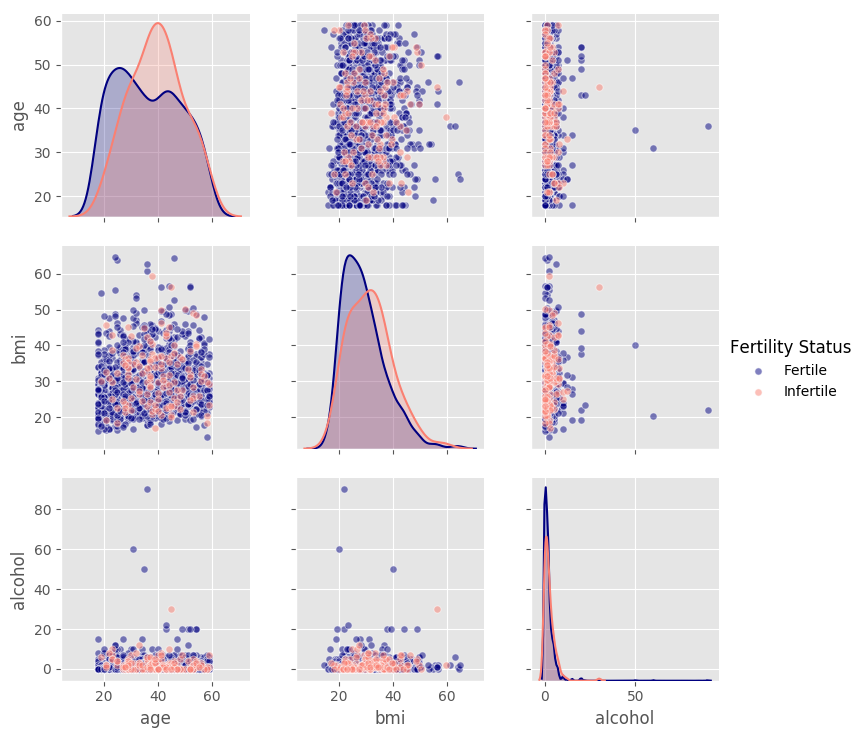
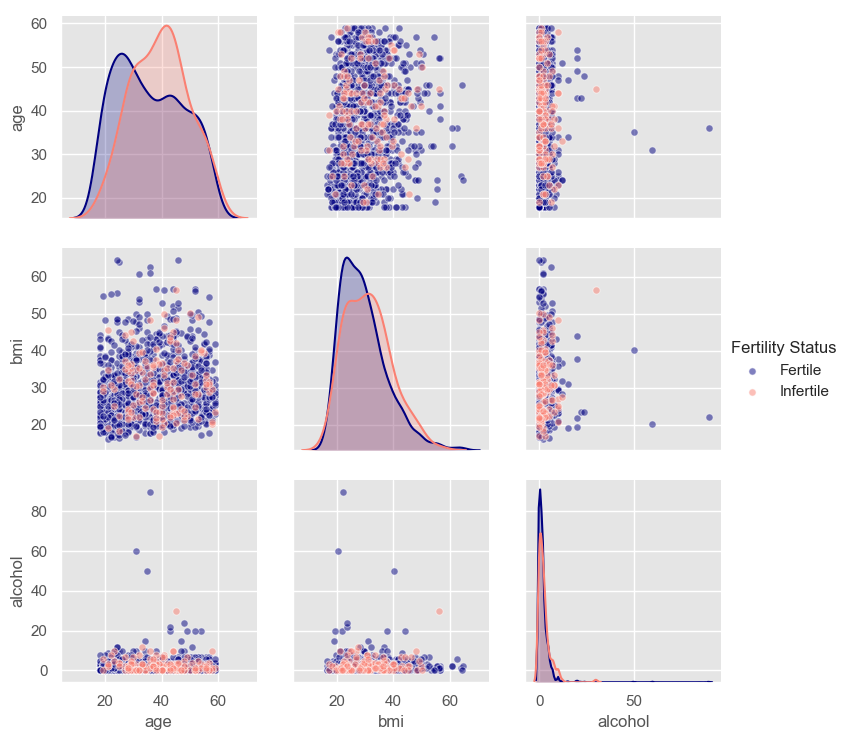
redoing analysis

diff --git a/src/final_mod.py b/src/final_mod.py
@@ -20,62 +20,61 @@ plt.style.use('ggplot')
 df, test_df = md.open_data()
 X, y, df_nodum, df_full = clean.clean_data(df)
 
-X_train, X_test, y_train, y_test = train_test_split(X, y, test_size = 0.20, stratify = y)
 
 
 
 #### TESTING TEST DATA FROM TRAIN TEST SPLIT 2
-X_train_3 = X_train.drop(['eth_african_american', 'eth_asian',
+X_train_3 = X.drop(['eth_african_american', 'eth_asian',
       'eth_mexican_hispanic', 'eth_mixed_race', 'eth_other_hispanic', 'thyroid_yes', 'physical_activity_some', 'physical_activity_moderate','physical_activity_vigorous','piv_yes'], axis = 1)
 
-X_test_1 = X_test.drop(['eth_african_american', 'eth_asian',
-      'eth_mexican_hispanic', 'eth_mixed_race', 'eth_other_hispanic', 'thyroid_yes', 'physical_activity_some', 'physical_activity_moderate','physical_activity_vigorous','piv_yes'], axis = 1)
+# X_test_1 = X_test.drop(['eth_african_american', 'eth_asian',
+#       'eth_mexican_hispanic', 'eth_mixed_race', 'eth_other_hispanic', 'thyroid_yes', 'physical_activity_some', 'physical_activity_moderate','physical_activity_vigorous','piv_yes'], axis = 1)
 
 
 #std train data here
 model_final = LogisticRegression(class_weight='balanced')
-model_final.fit(X_train_3.values, y_train.values)
+model_final.fit(X_train_3.values, y.values)
 
 # use same scaler to transform test X
 
-probs = model_final.predict_proba(X_test_1)[:, 1]
-probabilities = np.where(probs >= 0.4, 1, 0)
-probs1 = model_final.predict_proba(X_train_3)[:, 1]
-probabilities1 = np.where(probs1 >= 0.4, 1, 0)
-
-accuracy_final = metrics.accuracy_score(y_test, probabilities)
-precision_final = metrics.precision_score(y_test, probabilities)
-recall_final = metrics.recall_score(y_test, probabilities)
-recall_tr = metrics.recall_score(y_train, probabilities1)
-f1_score_final = metrics.f1_score(y_test, probabilities)
-
-fpr, tpr, thresholds = metrics.roc_curve(y_test, probs)
-fpr1, tpr1, thresholds1 = metrics.roc_curve(y_train, probs1)
-
-auc_final = metrics.roc_auc_score(y_test, probs)
-auc_train = metrics.roc_auc_score(y_train, probs1)
-
-fig = plt.figure(figsize=(10,8))
-ax = fig.add_subplot(111)
-ax.plot([0, 1], [0, 1], linestyle='--', lw=2, color='k',
-         label='Luck')
-ax.plot(fpr, tpr, color='salmon', lw=2, label='Test Model')
-ax.plot(fpr1, tpr1, color='navy', lw=2, label='Train Model')
-
-ax.set_xlabel("False Positive Rate", fontsize=20)
-ax.set_ylabel("True Postive Rate", fontsize=20)
-ax.set_title("ROC curve: Final Model", fontsize=24)
-ax.text(0.15, 0.65, " ".join(["AUC:",str(auc_final.round(3))]), fontsize=20, color = 'salmon')
-ax.text(0.15, 0.6, " ".join(['AUC:',str(auc_train.round(3))]), fontsize=20, color = 'navy')
-ax.legend(fontsize=24)
-
-plt.savefig('../images/ROC_final.png')
-
-conf_y_true = y_test.values
-conf_y_true_lab = np.where(conf_y_true == 0, 'fertile', 'infertile')
-conf_y_pro = probabilities
-conf_y_pro_lab = np.where(conf_y_pro == 0, 'fertile', 'infertile')
-
+# probs = model_final.predict_proba(X_test_1)[:, 1]
+# probabilities = np.where(probs >= 0.4, 1, 0)
+# probs1 = model_final.predict_proba(X_train_3)[:, 1]
+# probabilities1 = np.where(probs1 >= 0.4, 1, 0)
+#
+# accuracy_final = metrics.accuracy_score(y_test, probabilities)
+# precision_final = metrics.precision_score(y_test, probabilities)
+# recall_final = metrics.recall_score(y_test, probabilities)
+# recall_tr = metrics.recall_score(y_train, probabilities1)
+# f1_score_final = metrics.f1_score(y_test, probabilities)
+#
+# fpr, tpr, thresholds = metrics.roc_curve(y_test, probs)
+# fpr1, tpr1, thresholds1 = metrics.roc_curve(y_train, probs1)
+#
+# auc_final = metrics.roc_auc_score(y_test, probs)
+# auc_train = metrics.roc_auc_score(y_train, probs1)
+#
+# fig = plt.figure(figsize=(10,8))
+# ax = fig.add_subplot(111)
+# ax.plot([0, 1], [0, 1], linestyle='--', lw=2, color='k',
+#          label='Luck')
+# ax.plot(fpr, tpr, color='salmon', lw=2, label='Test Model')
+# ax.plot(fpr1, tpr1, color='navy', lw=2, label='Train Model')
+#
+# ax.set_xlabel("False Positive Rate", fontsize=20)
+# ax.set_ylabel("True Postive Rate", fontsize=20)
+# ax.set_title("ROC curve: Final Model", fontsize=24)
+# ax.text(0.15, 0.65, " ".join(["AUC:",str(auc_final.round(3))]), fontsize=20, color = 'salmon')
+# ax.text(0.15, 0.6, " ".join(['AUC:',str(auc_train.round(3))]), fontsize=20, color = 'navy')
+# ax.legend(fontsize=24)
+#
+# plt.savefig('../images/ROC_final.png')
+#
+# conf_y_true = y_test.values
+# conf_y_true_lab = np.where(conf_y_true == 0, 'fertile', 'infertile')
+# conf_y_pro = probabilities
+# conf_y_pro_lab = np.where(conf_y_pro == 0, 'fertile', 'infertile')
+#
 
 def generate_confusion_matrix(y_test, y_pred, labels, title, filename, show=False):
     cm = metrics.confusion_matrix(y_test, y_pred, labels=labels)
@@ -87,7 +86,7 @@ def generate_confusion_matrix(y_test, y_pred, labels, title, filename, show=Fals
     label = (np.asarray(["{1}\n({0})".format(string, value)
                       for string, value in zip(strings.flatten(),
                                                cm.flatten())])).reshape(2, 2)
-    ax = sns.heatmap(df_cm, annot=label,fmt="", cmap='Pastel1', annot_kws={'size':16},cbar = False)
+    ax = sns.heatmap(df_cm, annot=label,fmt="", cmap='Pastel1', annot_kws={'size':20},cbar = False)
     plt.ylabel("Actual Label", fontsize=14, fontweight='bold')
     plt.xlabel("Predicted Label", fontsize=14, fontweight='bold')
     plt.title(title, fontsize=14, fontweight='bold')
@@ -100,7 +99,7 @@ def generate_confusion_matrix(y_test, y_pred, labels, title, filename, show=Fals
     if show:
         plt.show()
 
-generate_confusion_matrix(conf_y_true_lab, conf_y_pro_lab, labels = ['infertile', 'fertile'], title = "Confusion Matrix of Final Model", filename = '../images/confusion_mat.png', show = False)
+# generate_confusion_matrix(conf_y_true_lab, conf_y_pro_lab, labels = ['infertile', 'fertile'], title = "Confusion Matrix of Final Model", filename = '../images/confusion_mat.png', show = False)
 
 ############ running it on the final holdout:
 
@@ -122,13 +121,13 @@ accuracy_final_holdout = metrics.accuracy_score(y_holdout, probabilities_h)
 precision_final_holdout = metrics.precision_score(y_holdout, probabilities_h)
 recall_final_holdout = metrics.recall_score(y_holdout, probabilities_h)
 f1_score_final_holdout = metrics.f1_score(y_holdout, probabilities_h)
-recall_train = metrics.recall_score(y_train, probabilities1_h)
+recall_train = metrics.recall_score(y, probabilities1_h)
 
 fpr_h, tpr_h, thresholds_h = metrics.roc_curve(y_holdout, probs_h)
-fpr1_h, tpr1_h, thresholds1_h = metrics.roc_curve(y_train, probs1_h)
+fpr1_h, tpr1_h, thresholds1_h = metrics.roc_curve(y, probs1_h)
 
 auc_final_holdout = metrics.roc_auc_score(y_holdout, probs_h)
-auc_train_holdout = metrics.roc_auc_score(y_train, probs1_h)
+auc_train_holdout = metrics.roc_auc_score(y, probs1_h)
 
 fig = plt.figure(figsize=(10,8))
 ax = fig.add_subplot(111)
@@ -153,9 +152,7 @@ conf_y_pro = probabilities_h
 conf_y_pro_lab = np.where(conf_y_pro == 0, 'fertile', 'infertile')
 generate_confusion_matrix(conf_y_true_lab, conf_y_pro_lab, labels = ['infertile', 'fertile'], title = "Confusion Matrix of Final Holdout Data", filename = '../images/confusion_mat_holdout.png', show = False)
 
-print(recall_tr)
 print(recall_train)
-print(recall_final)
 print(recall_final_holdout)
 
 ########## proportional bar chart ############

diff --git a/src/cvfunc.py b/src/cvfunc.py
@@ -20,8 +20,6 @@ from sklearn.preprocessing import StandardScaler
 df, test_df = md.open_data()
 X, y, df_nodum, df_full = clean.clean_data(df)
 
-X_train, X_test, y_train, y_test = train_test_split(X, y, test_size = 0.20, stratify = y)
-
 
 def k_fold_CV(X, y, desc, n_folds = 5, cw = 'balanced', threshold = 0.5, scaler = None):
     skf = StratifiedKFold(n_splits=n_folds, shuffle=False)
@@ -70,36 +68,36 @@ def k_fold_CV(X, y, desc, n_folds = 5, cw = 'balanced', threshold = 0.5, scaler 
 col = ['auc_test', 'accuracy_test', 'precision_test', 'recall_test', 'f1_score_test', 'auc_train', 'accuracy_train', 'precision_train', 'recall_train', 'f1_score_train', 'desc']
 df_metrics = pd.DataFrame(columns = col)
 
-X_train_1 = X_train.drop(['eth_african_american', 'eth_asian',
+X_train_1 = X.drop(['eth_african_american', 'eth_asian',
        'eth_mexican_hispanic', 'eth_mixed_race', 'eth_other_hispanic', 'piv_yes'], axis = 1)
-X_train_2 = X_train.drop(['eth_african_american', 'eth_asian',
+X_train_2 = X.drop(['eth_african_american', 'eth_asian',
        'eth_mexican_hispanic', 'eth_mixed_race', 'eth_other_hispanic', 'thyroid_yes', 'piv_yes'], axis = 1)
-X_train_3 = X_train.drop(['eth_african_american', 'eth_asian',
+X_train_3 = X.drop(['eth_african_american', 'eth_asian',
       'eth_mexican_hispanic', 'eth_mixed_race', 'eth_other_hispanic', 'thyroid_yes', 'physical_activity_some', 'physical_activity_moderate','physical_activity_vigorous', 'piv_yes'], axis = 1)
-X_train_4 = X_train[['age', 'bmi']]
-X_train_5 = X_train[['age']]
+X_train_4 = X[['age', 'bmi']]
+X_train_5 = X[['age']]
 
-lst = [X_train, X_train_1, X_train_2, X_train_3, X_train_4, X_train_5]
+lst = [X, X_train_1, X_train_2, X_train_3, X_train_4, X_train_5]
 
 dslst = ['all parameters', 'no ethnicity', 'no thyroid', 'no physical act', 'age/bmi','age']
 for x, desc in zip(lst, dslst):
-    df_metrics.loc[len(df_metrics)] = k_fold_CV(x, y_train, desc)
+    df_metrics.loc[len(df_metrics)] = k_fold_CV(x, y, desc)
 
 #trying out different thresholds
 t_lst = [ 0.3, 0.35, 0.4, 0.45, 0.5, 0.55, 0.6, 0.65, 0.7, 0.75]
 dslst_2 = [ '0.3', '0.35', '0.4', '0.45', '0.5', '0.55', '0.6', '0.65', '0.7', '0.75']
 for t, desc in zip(t_lst, dslst_2):
-    df_metrics.loc[len(df_metrics)] = k_fold_CV(X_train_3, y_train, desc, threshold = t)
+    df_metrics.loc[len(df_metrics)] = k_fold_CV(X_train_3, y, desc, threshold = t)
 
 
 b_lst = ['balanced',{0:1, 1:2}, {0:1, 1:3}, {0:1, 1:4}, {0:1, 1:5}, {0:1, 1:6}, {0:1, 1:7}, {0:1, 1:8}, {0:1, 1:9}, {0:1, 1:10}, {0:1, 1:11}]
 dslst_3 = [ 'balanced','1/2', '1/3', '1/4', '1/5', '1/6', '1/7', '1/8', '1/9', '1/10', '1/11']
 for c, desc in zip(b_lst, dslst_3):
-    df_metrics.loc[len(df_metrics)] = k_fold_CV(X_train_3, y_train, desc, cw = c)
+    df_metrics.loc[len(df_metrics)] = k_fold_CV(X_train_3, y, desc, cw = c)
 #pro con list of why i'm optimizing the way i am
 ## Final model?
-df_metrics.loc[len(df_metrics)] = k_fold_CV(X_train_3, y_train, desc = "final-1/10", cw = 'balanced', threshold = 0.40)
-df_metrics.loc[len(df_metrics)] = k_fold_CV(X_train_3, y_train, desc = "final- balance", cw = 'balanced', threshold = 0.40)
+df_metrics.loc[len(df_metrics)] = k_fold_CV(X_train_3, y, desc = "final-1/10", cw = 'balanced', threshold = 0.40)
+df_metrics.loc[len(df_metrics)] = k_fold_CV(X_train_3, y, desc = "final- balance", cw = 'balanced', threshold = 0.40)
 
 #Confusion matrix code
 #

diff --git a/README.md b/README.md
@@ -6,14 +6,13 @@
 #### Website: https://github.com/rosiemin/dsi-capstone1
 
 # Background
-Human infertility is a complex disorder that is becoming more prevalent. In 2010, an estimated 48.5 million couples worldwide were unable to have a child after five years of trying to conceive. Worldwide 1 in 6 couples have troubles getting pregnant or sustaining their pregnancy and approximately 6.9 million American women struggle with issues of infertility. According to the National Center for Health Statistics, in the United States 12.1% of women aged 15-44 have impaired fecundity (the ability to have kids) and 6.7% of married women in the same age range are infertile.
+Human infertility is a complex disorder that is becoming more prevalent. In 2010, an estimated 48.5 million couples worldwide were unable to have a child after five years of trying to conceive. Worldwide 1 in 6 couples have trouble getting pregnant or sustaining their pregnancy and approximately 6.9 million American women struggle with issues of infertility. According to the National Center for Health Statistics, in the United States 12.1% of women aged 15-44 have impaired fecundity (the ability to have kids) and 6.7% of married women in the same age range are infertile.
 
 <p align="center">
 <img src="images/fertility.jpg">
 
 [ source](https://www.stanfordchildrens.org/content-public/pdf/national-infertility-week-stanford-childrens.pdf)
 </p>
-
 
 
 Infertility is influenced by a broad range of physical, anatomical, hormonal, genetic and environmental stressors. About 1/3 of infertility is attributed to female issues, 1/3 is attributed to male issues, and 1/3 is attributed to unknown factors. The burden of infertility high and remains an ongoing global reproductive health issue.
@@ -36,8 +35,8 @@ While we infertility is not only a “female” issue, for the purposes of this 
 * Age
 * Race/Ethnicity
 * BMI (body mass index)
-*	Pre-existing thyroid issues, STIs, and pelvic inflammatory disease
-*	Physical activity, based on the CDC’s recommendation (150 min moderate of 75 min of vigorous exercise per week)
+*	Pre-existing hormonal issues, STIs, and pelvic inflammatory disease
+*	Physical activity
 *	Alcohol consumption
 *	Smoking
 *	Irregular periods
@@ -73,37 +72,42 @@ Those participants that said “Yes” to one of either of the two questions are
 <img src="images/flowchart.png" width = 600px>
 </p>
 
+#### How did I choose my test metric?
+1. What is the question at hand?
+2. What are the potential metrics?
 
 ### Final Model Assessment:
 
 ```python
 Coefficients from the final holdout model using Stats Models
                       coef     P>|z|
-Intercept          -4.0289     0.000      
-Age                 0.0595     0.005      
-Alcohol             0.0750     0.164     
-BMI                -0.0116     0.627      
-STI_yes            -0.5830     0.378     
-Irr Periods_yes    -0.9072     0.109      
-Current Smoke       0.0481     0.926    
-Former Smoke        0.7921     0.109     
+Intercept          -5.0404     0.000      
+Age                 0.0394     0.047      
+Alcohol             0.0087     0.881     
+BMI                 0.0513     0.035      
+STI_yes            -0.3440     0.599     
+Irr Periods_yes    -0.1853     0.737      
+Current Smoke      -0.0322     0.949    
+Former Smoke       -0.7065     0.289     
 ```
-Because age is significant, we can look at the exp(0.0595) = 1.06
+Because age and BMI are significant, we can look at the exp(0.0394) = 1.04 (age), and exp(0.0513) = 1.05
 
-** Holding all else constant, on average, with a one year increase in age, the odds increases by 6% among those that are infertile compared to those that are fertile.**
+***Interpretation of age***
+**Holding all else constant, on average, with a one year increase in age, the odds increase by 4% among those that are infertile compared to those that are fertile.**
+
+***Interpretation of BMI***
+
+**Holding all else constant, on average, with a one unit increase in BMI, the odds increase by 5% among those that are infertile compared to those that are fertile.**
 
 <p align="center">
-<img src="images/ROC_final.png" width=400px><img src="images/ROC_holdout.png" width=400px>
+<img src="images/ROC_holdout.png">
 </p>
 
-**The recall from my training model 0.910**
-
-**The recall from my first test 0.893**
-
-**The recall from my final hold out was 0.886**
+* **The recall from my training model 0.906**
+* **The recall from my final hold out was 0.886**
 
 <p align="center">
-<img src="images/confusion_mat.png" width=420px><img src="images/confusion_mat_holdout.png" width=420px>
+<img src="images/confusion_mat_holdout.png">
 </p>
 
 
